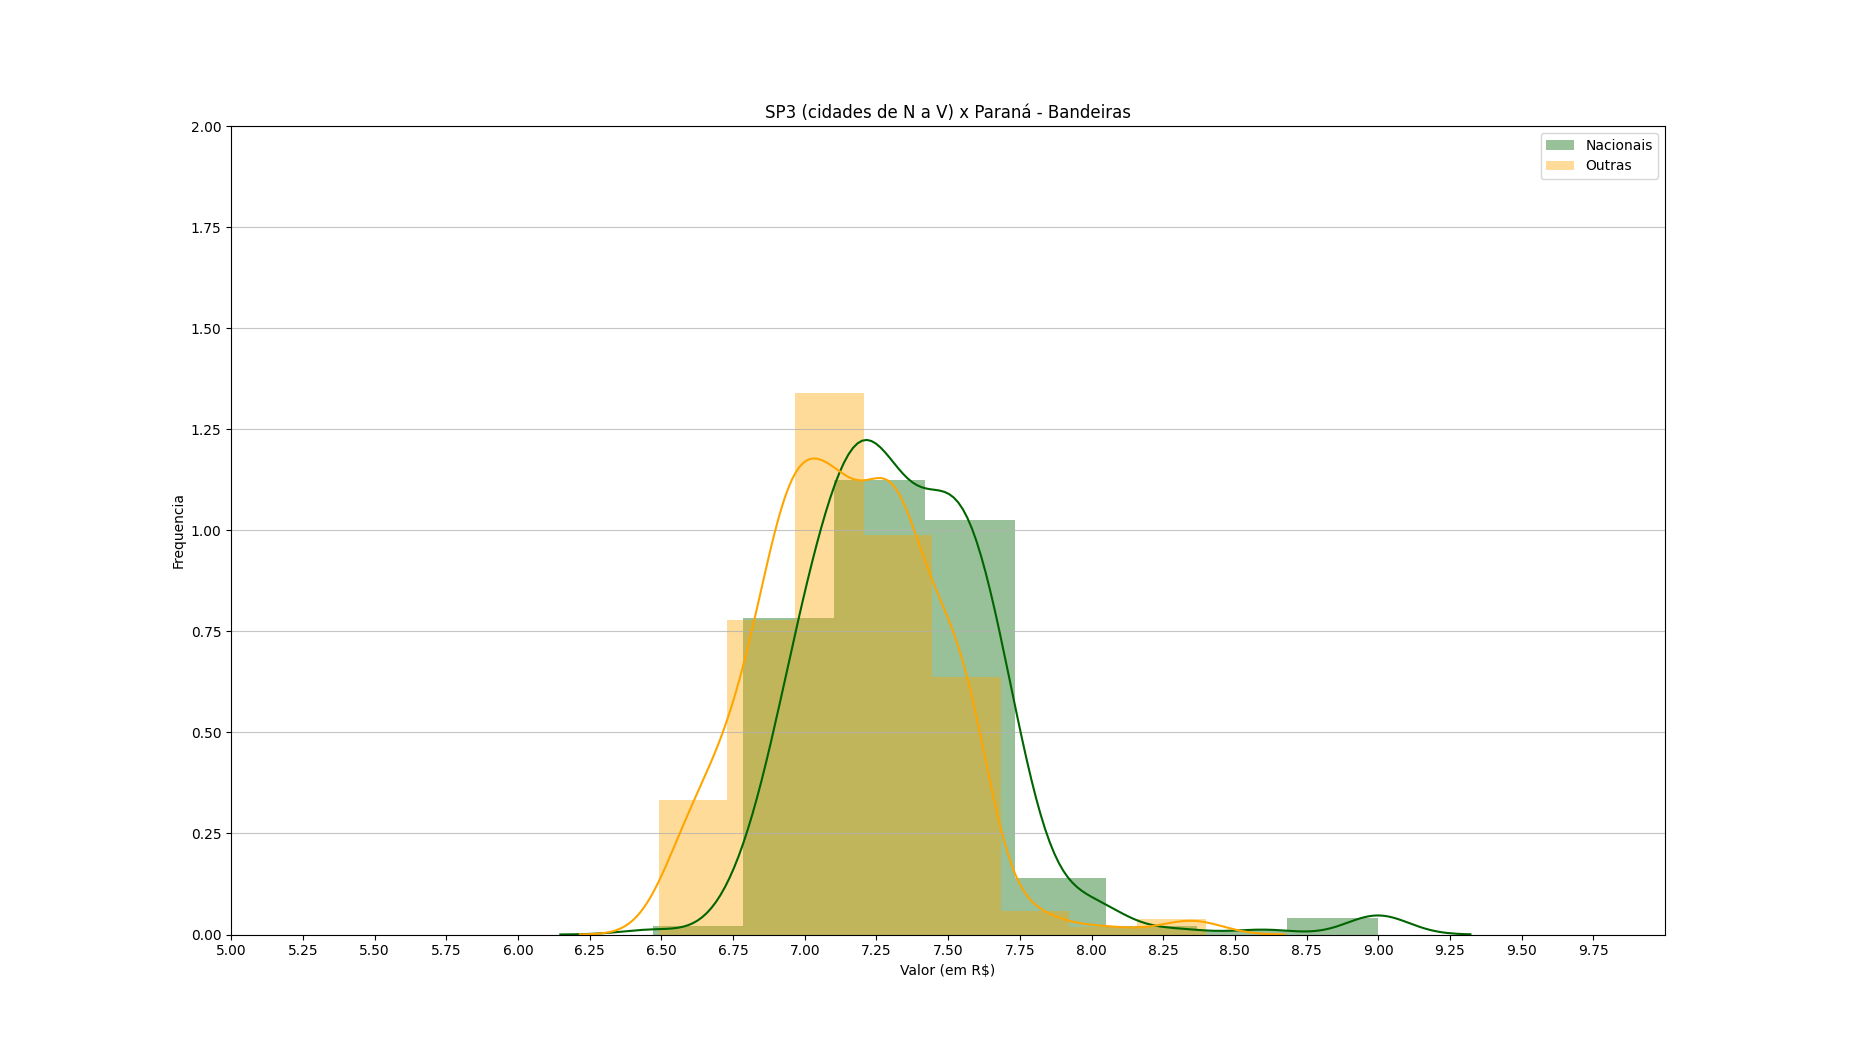
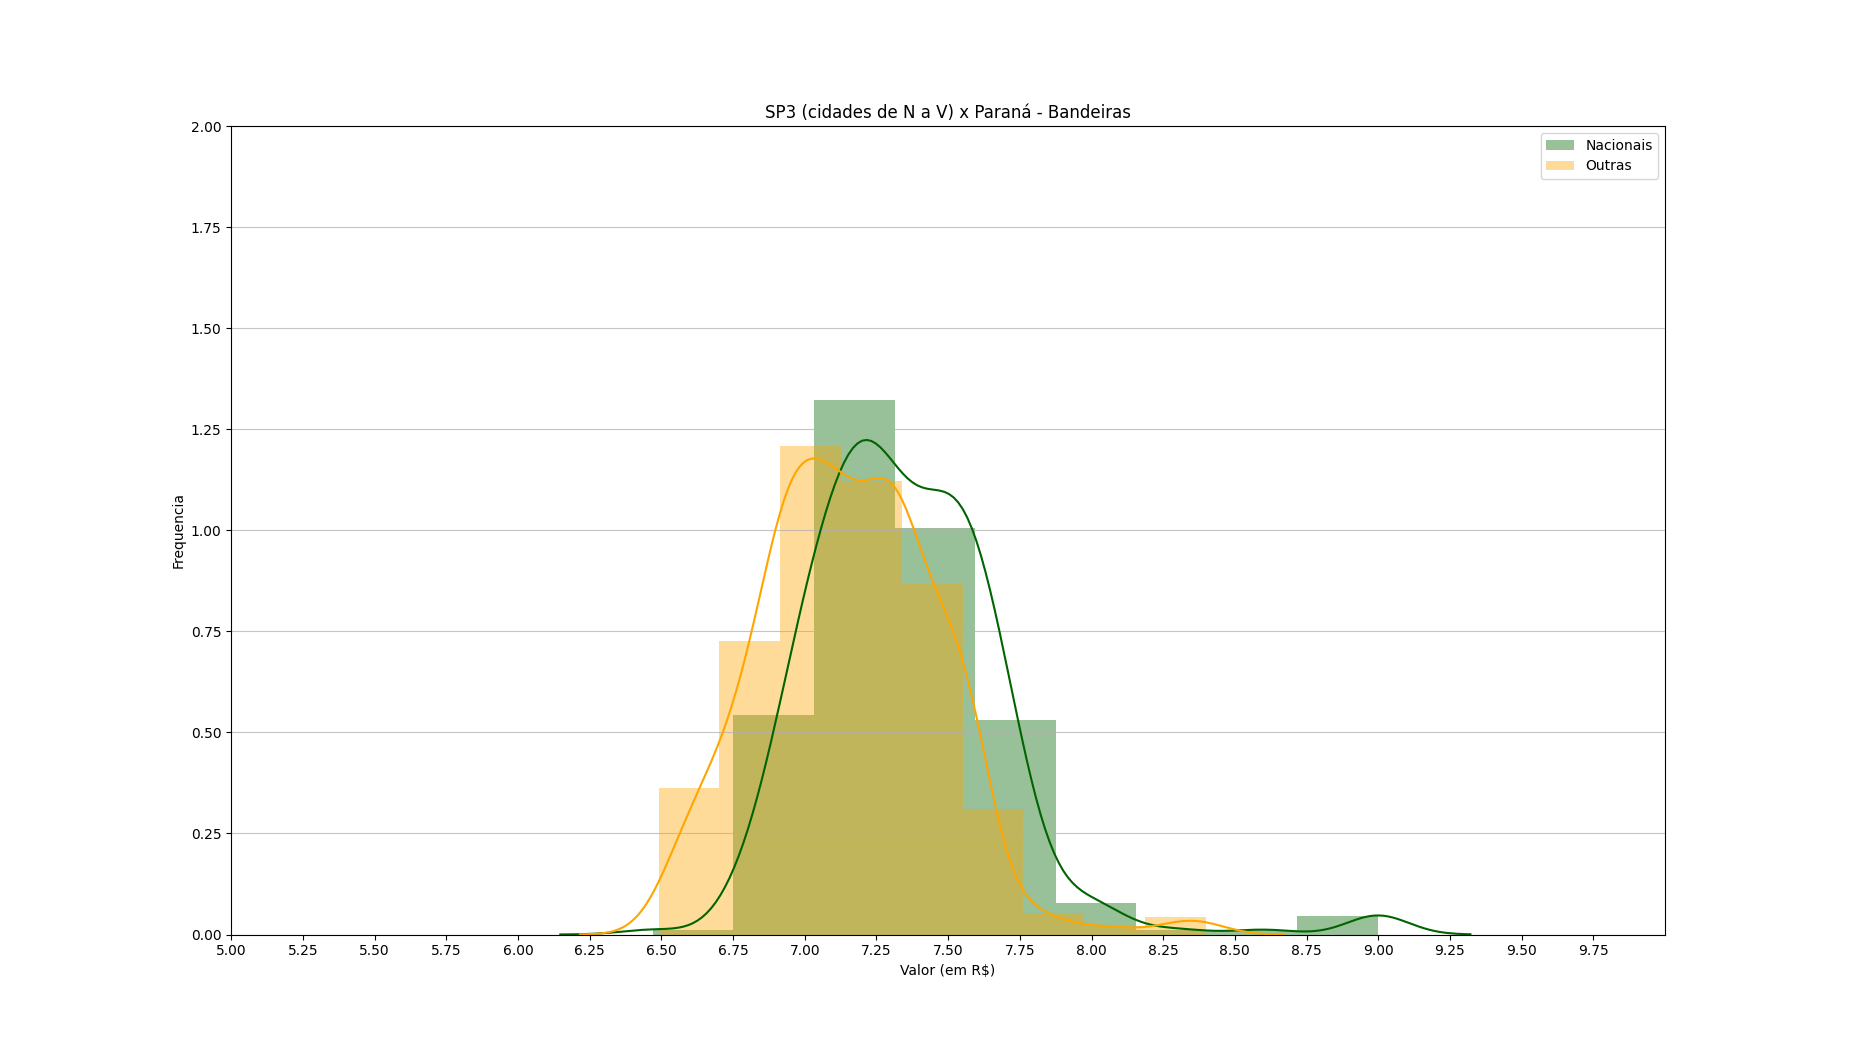
Revisa criterios e adiciona o modelo empirico manual

Changed region(s): [[0.3389, 0.3657, 0.647, 0.8838]]

diff --git a/empirical_model.py b/empirical_model.py
@@ -1,0 +1,78 @@
+import json 
+import math
+from tabulate import tabulate
+
+ROUNDING = 3
+ROUNDING_FORMAT = '.3f'
+
+def determine_class_amount(data_set):
+    return math.trunc(1+  math.log(len(data_set), 2)) 
+
+def determine_class_size(data_set, number_classes, min, max):
+    range = max - min
+    return round(range/number_classes, ROUNDING)
+
+def get_median(data_set):
+    lenght = len(data_set)
+
+    middle = int(math.trunc(lenght/2))
+
+    if lenght % 2 == 0:
+        return round((data_set[middle] + data_set[middle - 1]) / 2, ROUNDING)
+    else:
+        return round(data_set[middle], ROUNDING)
+
+def create(data_set):
+    print()
+    data_set.sort()
+    max_value = float(max(data_set))
+    min_value = float(min(data_set))
+    number_classes = determine_class_amount(data_set)
+    class_size = determine_class_size(data_set, number_classes, min_value, max_value)
+
+    entries = []
+    headers = ['Classes', 'Frequência', 'F-Relativa', 'Mediana', '%', '% Acumulada']
+
+
+    freq = []
+    accumulated_percentage = 0
+    for i in range(number_classes):
+    # print(tabulate([['Alice', 24], ['Bob', 19]], headers=['Name', 'Age']))
+        freq.append([])
+        inferior = round(min_value + i*class_size, ROUNDING)
+        superior = round(inferior + class_size, ROUNDING)
+        class_range = (str(format(inferior, ROUNDING_FORMAT)) + "-|" + str(format(superior, ROUNDING_FORMAT)))
+        for entry in data_set:
+            if inferior <= float(entry) < superior:
+                freq[i].append(float(entry))
+
+        percentage = len(freq[i])/len(data_set)
+        accumulated_percentage += percentage
+        entries.append([class_range, len(freq[i]), round(len(freq[i])/len(data_set), ROUNDING), get_median(freq[i]), round(percentage, ROUNDING), round(accumulated_percentage, ROUNDING)])
+
+    print(tabulate(entries, headers=headers, numalign="center", stralign="center"))
+    print()
+    print(str(class_size) + " tamanho das classes")
+    print(str(number_classes) + " numero de classes")    
+    print(str(len(data_set)) + " tamanho da amostra\n")
+
+# 258 tamanho da amostra
+
+def get_price(set): 
+    return set['PRE_VENDA'].replace(",", ".")
+
+file = open("anp-data.json")
+data = json.load(file)
+
+parana = []
+sp3 = []
+
+for set in data:
+    if set["ESTADO"] == "PR":
+        parana.append(get_price(set))
+    else:
+        sp3.append(get_price(set))
+
+create(parana)
+
+

diff --git a/model.py b/model.py
@@ -1,4 +1,3 @@
-# example of a bimodal data sample
 from matplotlib import pyplot
 import json 
 import math
@@ -10,31 +9,15 @@ warnings.filterwarnings("ignore")
 
 ROUNDING = 2
 
-def getMin(dataset1, dataset2):
-    min_value1 = float(min(dataset1))
-    min_value2 = float(min(dataset2))
-    return min(min_value1, min_value2)
-
-def getMax(dataset1, dataset2):
-    max_value1 = float(max(dataset1))
-    max_value2 = float(max(dataset2))
-    return max(max_value1, max_value2)
-
 def determine_class_amount(data_set):
-    return math.trunc(math.log(len(data_set), 2)) 
+    return math.trunc(1+  math.log(len(data_set), 2)) 
 
 def determine_class_size(data_set, number_classes, min, max):
     range = max - min
     return round(range/number_classes, ROUNDING)
-    
+
 def create_hist(data_set, color, label):
-    max_value = float(max(data_set))
-    min_value = float(min(data_set))
-
-    number_classes = determine_class_amount(data_set)
-    class_size = determine_class_size(data_set, number_classes, min_value, max_value)
-
-    kwargs = dict(bins=number_classes, color=color, label=label)
+    kwargs = dict(bins=determine_class_amount(data_set), color=color, label=label)
 
     sns.distplot(data_set, **kwargs)
 

diff --git a/README.md b/README.md
@@ -9,6 +9,10 @@ This repository uses poetry for dependency management. Learn more in https://pyt
 
         poetry install
 
-<b>Execute:</b>
+<b>Create histograms:</b>
 
         poetry run python model.py
+
+<b>Create empirical model:</b>
+
+        poetry run python empirical_model.py
